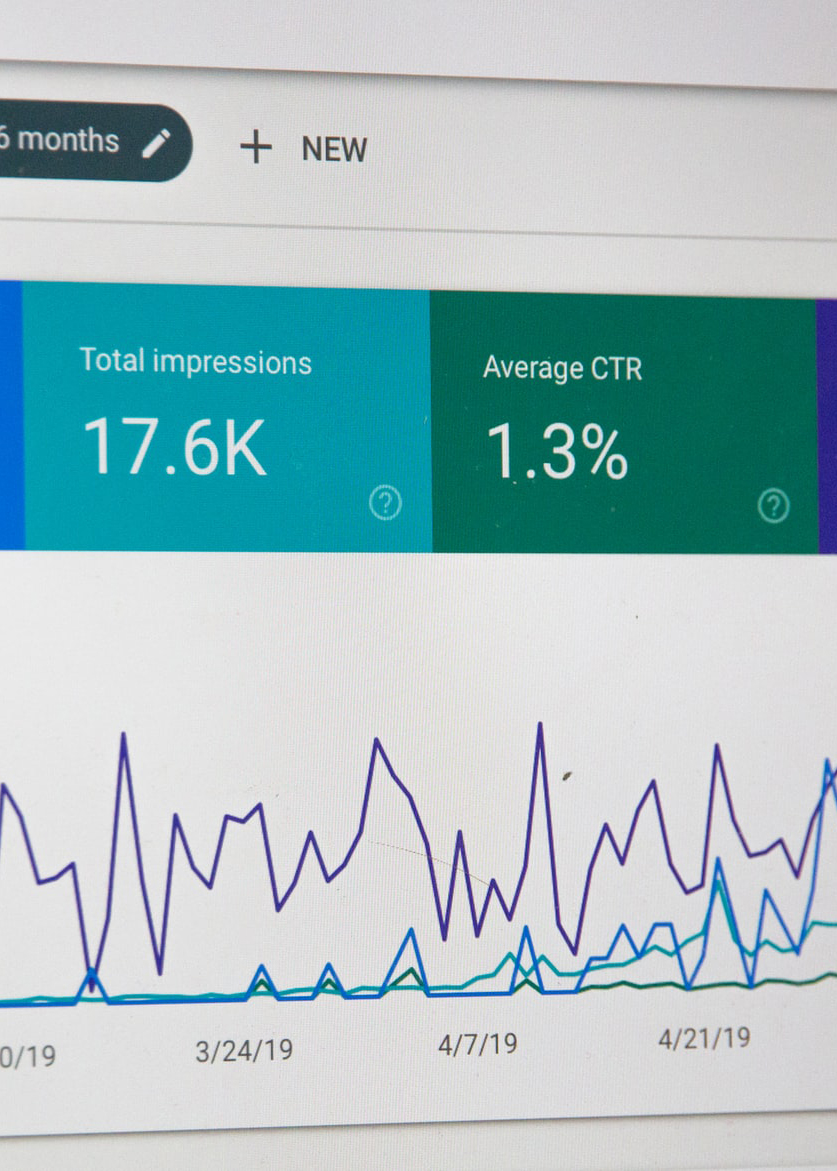
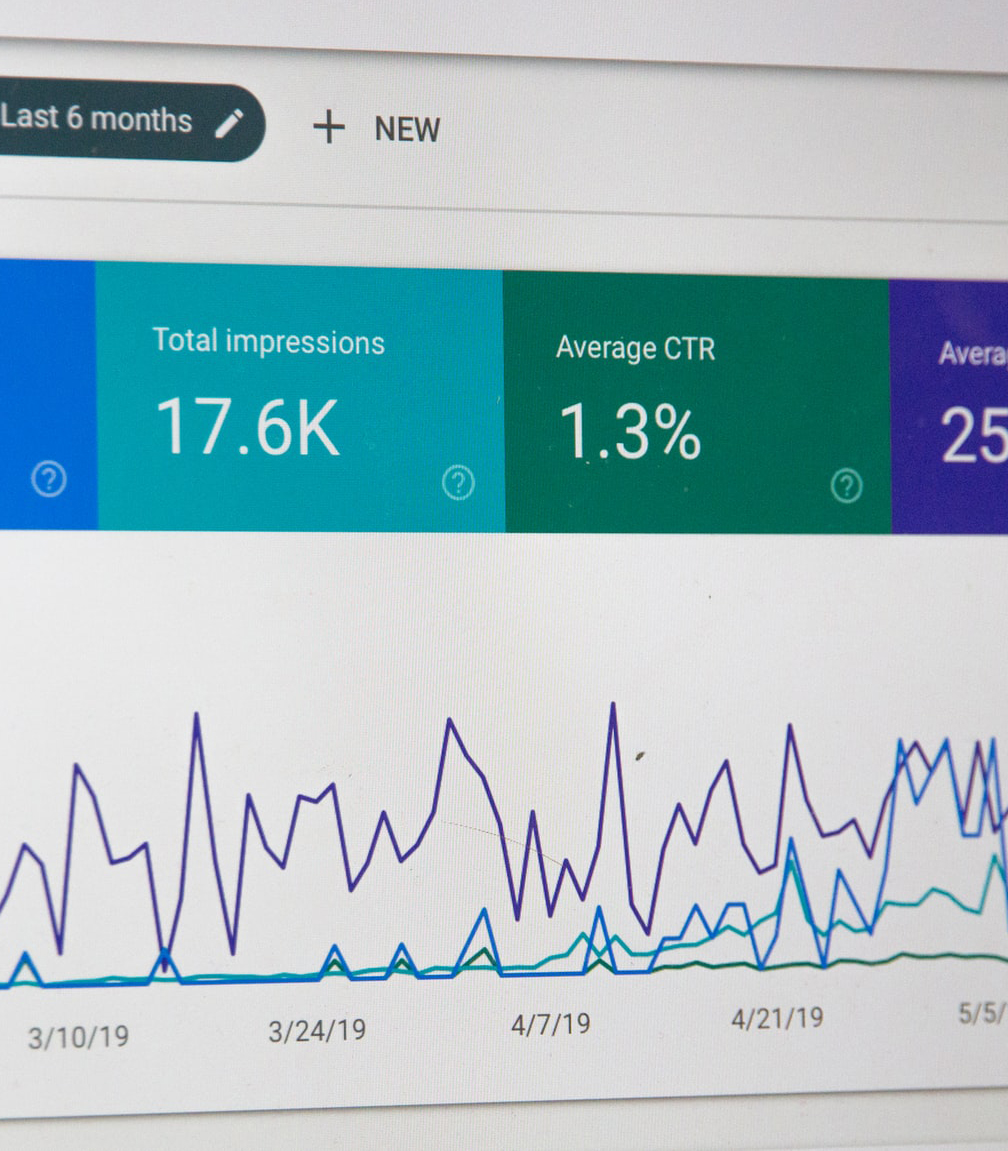
Poprawka zdjęc
zmiana rozmiaru, wyrównanie

diff --git a/index.html b/index.html
@@ -52,13 +52,13 @@
         </div>
         <div class="row">
             <div class="col">
-                <img class="picture img-fluid" src="images/prawe.png">
+                <img class="picture img-fluid" src="images/lewe.jpg">
             </div>
             <div class="col">
                 <img class="picture img-fluid" src="images/srodkowe.jpg">
             </div>
             <div class="col">
-                <img class="picture img-fluid"  src="images/lewe.jpg">
+                <img class="picture img-fluid"  src="images/prawe.jpg">
             </div>
         </div>
         <div class="row">
